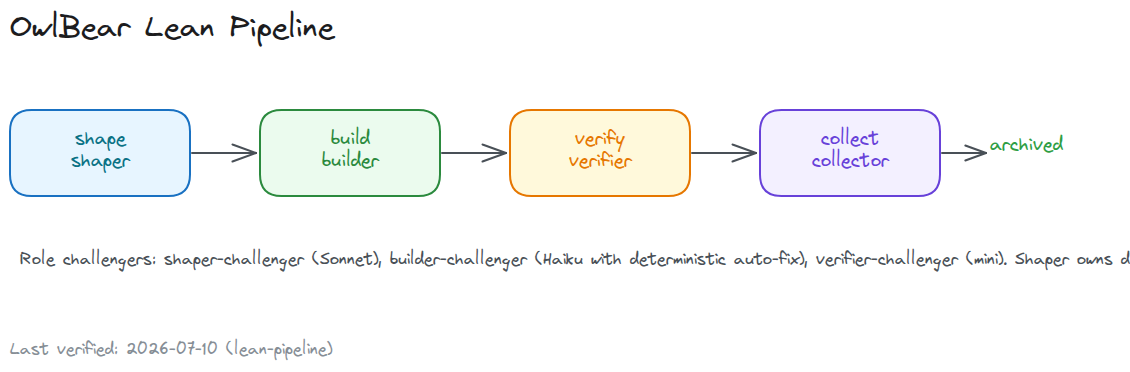
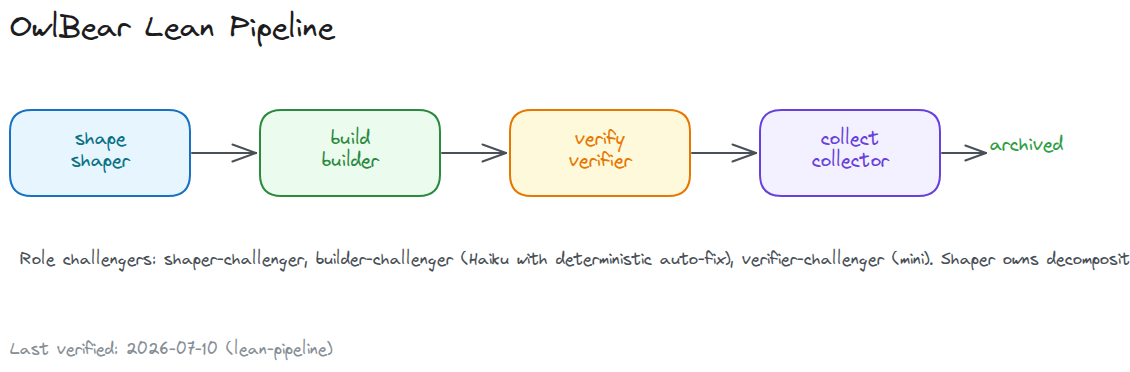
sync(share): dev@ef707d2d
Dev-Ref: ef707d2dd3b369f50d71a28595e14589624f75a4
Run: https://github.com/maba-pag/owlbear/actions/runs/29104523135

Changed region(s): [[0.2788, 0.6505, 1.0, 0.7392]]

diff --git a/share/skills/r-pipeline-protocol/SKILL.md b/share/skills/r-pipeline-protocol/SKILL.md
@@ -41,17 +41,6 @@ Load these via `read_file` when the referenced capability is needed:
 - **Verifier** validates the result, may patch small local issues, and calls verifier-challenger before every PASS.
 - **Collector** has two modes: mechanically archive verified leaf tasks, and review aggregate parents/EPICs for parent intent fulfillment. Ordinary subtasks should not receive a second detailed implementation review in `collect`.
 
-### Model Routing
-
-Model choice is fixed per agent frontmatter. Do not write model metadata into task bodies, kanban config, topology, or dispatch code.
-
-| Role | Default model | Challenger |
-|------|---------------|------------|
-| shaper | GPT-5.5 | shaper-challenger — Claude Sonnet 5 |
-| builder | GPT-5.4 mini | builder-challenger — Claude Haiku 4.5 |
-| verifier | Claude Sonnet 5 | verifier-challenger — GPT-5.4 mini |
-| collector | GPT-5.5 | none by default |
-
 ## 2. Task Setup
 
 ### One Task

diff --git a/share/agents/builder.agent.md b/share/agents/builder.agent.md
@@ -4,7 +4,7 @@ description: "Build gate — implement shaped tasks with minimal, evidence-backe
 argument-hint: "Build: {task_id}"
 user-invocable: false
 disable-model-invocation: true
-model: GPT-5.4 mini (copilot)
+model: GPT-5.6 Terra (copilot)
 tools:
   [vscode/toolSearch, execute/executionSubagent, execute/getTerminalOutput, execute/killTerminal, execute/sendToTerminal, execute/runInTerminal, read/problems, read/readFile, read/viewImage, read/terminalLastCommand, agent, edit/createDirectory, edit/createFile, edit/editFiles, edit/rename, search, ob-kanban/create_request, ob-kanban/edit_task, ob-kanban/end_work, ob-kanban/list_requests, ob-kanban/list_tasks, ob-kanban/show_request, ob-kanban/show_task, ob-kanban/start_work, ob-memory/recall_memory, ob-memory/save_memory]
 agents: [builder-challenger]

diff --git a/share/agents/shaper.agent.md b/share/agents/shaper.agent.md
@@ -4,7 +4,7 @@ description: "Shape gate — turn raw intent into build-ready tasks with clear a
 argument-hint: "Shape: {task_id}"
 user-invocable: true
 disable-model-invocation: true
-model: GPT-5.5 (copilot)
+model: GPT-5.6 Sol (copilot)
 tools:
   [vscode/toolSearch, vscode/askQuestions, execute/getTerminalOutput, execute/killTerminal, execute/sendToTerminal, execute/runInTerminal, read/problems, read/readFile, read/viewImage, read/terminalLastCommand, agent, vscode.mermaid-markdown-features, edit/createDirectory, edit/createFile, edit/editFiles, search, web, ddgs/extract_content, ddgs/search_text, 'markitdown/*', 'ob-kanban/*', ob-memory/recall_memory, ob-memory/save_memory, vscodeTasks/problems, vscodeGeneral/toolSearch]
 agents: [shaper-challenger, Explore]

diff --git a/share/agents/verifier.agent.md b/share/agents/verifier.agent.md
@@ -4,7 +4,7 @@ description: "Verify gate — evidence-based verification with small local patch
 argument-hint: "Verify: {task_id}"
 user-invocable: false
 disable-model-invocation: true
-model: Claude Sonnet 5 (copilot)
+model: GPT-5.6 Luna (copilot)
 tools:
   [vscode/toolSearch, execute/executionSubagent, execute/getTerminalOutput, execute/killTerminal, execute/sendToTerminal, execute/runInTerminal, read/problems, read/readFile, read/viewImage, read/terminalLastCommand, agent, edit/createDirectory, edit/createFile, edit/editFiles, edit/rename, search, ob-kanban/edit_task, ob-kanban/end_work, ob-kanban/list_tasks, ob-kanban/show_task, ob-kanban/start_work, ob-memory/recall_memory, ob-memory/save_memory]
 agents: [verifier-challenger]

diff --git a/share/agents/memory-curator.agent.md b/share/agents/memory-curator.agent.md
@@ -4,6 +4,7 @@ description: "Memory maintenance — deduplicate, consolidate, prune, and promot
 argument-hint: "Curate: Periodic curation"
 user-invocable: true
 disable-model-invocation: true
+model: GPT-5.6 Luna (copilot)
 tools:
   [vscode/toolSearch, vscode/askQuestions, execute/executionSubagent, execute/getTerminalOutput, execute/killTerminal, execute/sendToTerminal, execute/runInTerminal, read/problems, read/readFile, read/viewImage, read/terminalLastCommand, agent, edit/createDirectory, edit/createFile, edit/editFiles, edit/rename, search, ob-kanban/list_tasks, ob-kanban/show_task, ob-memory/curate_memory, ob-memory/delete_memory, ob-memory/list_memories, ob-memory/read_memory, ob-memory/save_memory]
 agents: []

diff --git a/share/agents/collector.agent.md b/share/agents/collector.agent.md
@@ -4,7 +4,7 @@ description: "Collect gate — leaf archival and EPIC/parent intent verification
 argument-hint: "Collect: {task_id}"
 user-invocable: false
 disable-model-invocation: true
-model: GPT-5.5 (copilot)
+model: GPT-5.6 Sol (copilot)
 tools:
   [vscode/toolSearch, execute/executionSubagent, execute/getTerminalOutput, execute/killTerminal, execute/sendToTerminal, execute/runInTerminal, read/problems, read/readFile, read/viewImage, read/terminalLastCommand, agent, search, ob-kanban/edit_task, ob-kanban/end_work, ob-kanban/list_requests, ob-kanban/list_tasks, ob-kanban/show_request, ob-kanban/show_task, ob-kanban/start_work, ob-memory/recall_memory, ob-memory/save_memory]
 agents: [Explore]

diff --git a/share/agents/shaper-challenger.agent.md b/share/agents/shaper-challenger.agent.md
@@ -1,10 +1,10 @@
 ---
 name: shaper-challenger
-description: "Shaper challenger — Sonnet cross-check for scope, AC, and architecture approval decisions (ND3)"
+description: "Shaper challenger — Cross-check for scope, AC, and architecture approval decisions (ND3)"
 argument-hint: "Challenge Shape: task_id={task_id}, proposed_verdict=APPROVED, ac_lines=[...], reasoning={reasoning}"
 user-invocable: false
 disable-model-invocation: false
-model: Claude Sonnet 5 (copilot)
+model: Claude Opus 4.8 (copilot)
 tools: [vscode/toolSearch, read/problems, read/readFile, read/viewImage, search]
 agents: []
 hooks:

diff --git a/share/WIRING.md b/share/WIRING.md
@@ -90,7 +90,7 @@ Built-in agents (`Explore`, `General Purpose`) resolve at any depth.
 
 | Subagent | Affected Agents | Failure Mode |
 |----------|-----------------|--------------|
-| shaper-challenger | shaper | Shape approval loses Sonnet cross-check |
+| shaper-challenger | shaper | Shape approval loses cross-check |
 | builder-challenger | builder | Build DONE loses cheap lint/proof/adversarial cross-check |
 | verifier-challenger | verifier | PASS loses cheap intent/code/proof/scope cross-check |
 | ideation-critic | ideation panel agents | Ideation challenge loop degraded |

diff --git a/share/agents/builder-challenger.agent.md b/share/agents/builder-challenger.agent.md
@@ -4,7 +4,7 @@ description: "Cheap builder cross-check — adversarial proof and lint/typecheck
 argument-hint: "Challenge Build: task_id={task_id}, proposed_verdict=DONE, changed_files=[...], evidence={evidence}"
 user-invocable: false
 disable-model-invocation: false
-model: Claude Haiku 4.5 (copilot)
+model: MAI-Code-1-Flash (copilot)
 tools: [vscode/toolSearch, execute/getTerminalOutput, execute/killTerminal, execute/sendToTerminal, execute/runInTerminal, read/problems, read/readFile, read/viewImage, read/terminalLastCommand, search]
 agents: []
 hooks:

diff --git a/share/agents/knowledge-enricher.agent.md b/share/agents/knowledge-enricher.agent.md
@@ -4,7 +4,7 @@ description: "Knowledge enrichment worker - entity and relation extraction from 
 argument-hint: "Enrich: {optional scope or worker note}"
 user-invocable: true
 disable-model-invocation: true
-model: Claude Haiku 4.5 (copilot)
+model: GPT-5.6 Luna (copilot)
 tools:
   [vscode/toolSearch, ob-knowledge/knowledge_enrichment_claim_batch, ob-knowledge/knowledge_search, ob-knowledge/knowledge_stats, ob-knowledge/knowledge_enrichment_retry, ob-knowledge/knowledge_enrichment_store, ob-memory/recall_memory, ob-memory/save_memory]
 ---

diff --git a/share/agents/verifier-challenger.agent.md b/share/agents/verifier-challenger.agent.md
@@ -4,7 +4,7 @@ description: "Verifier challenger — cheap final cross-check before collect (ND
 argument-hint: "Challenge Verify: task_id={task_id}, proposed_verdict=PASS, changed_files=[...], evidence={evidence}"
 user-invocable: false
 disable-model-invocation: false
-model: GPT-5.4 mini (copilot)
+model: GPT-5.6 Terra (copilot)
 tools: [vscode/toolSearch, read/problems, read/readFile, read/viewImage, search]
 agents: []
 hooks:
